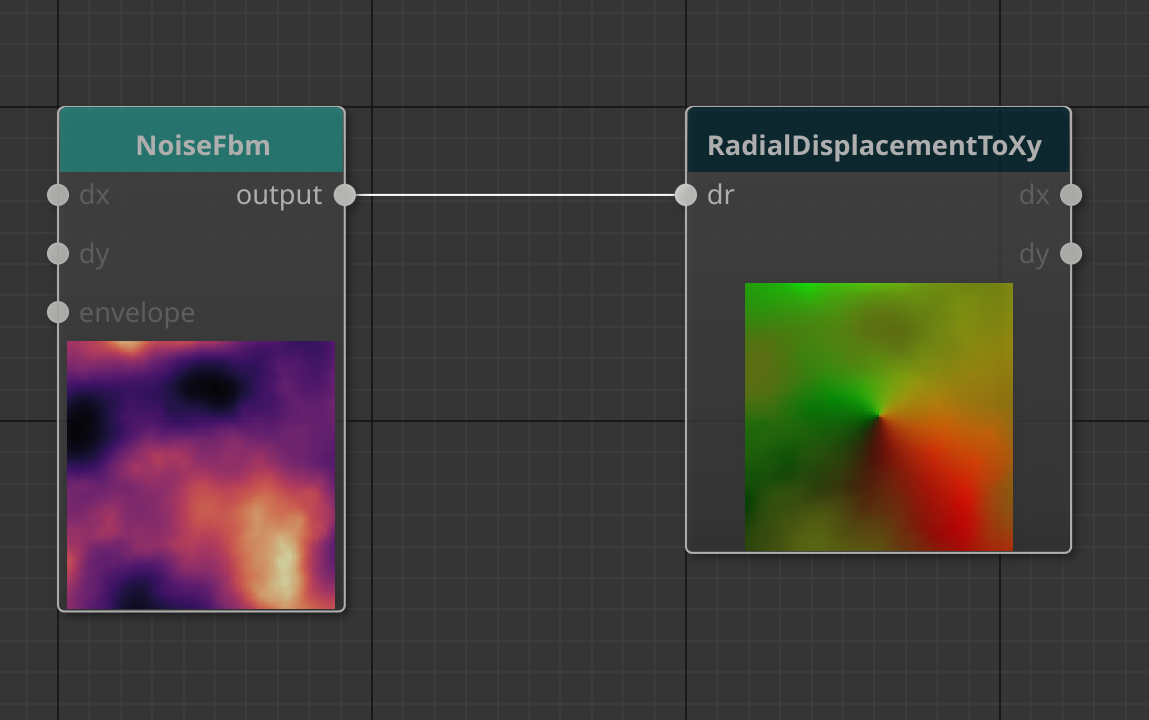
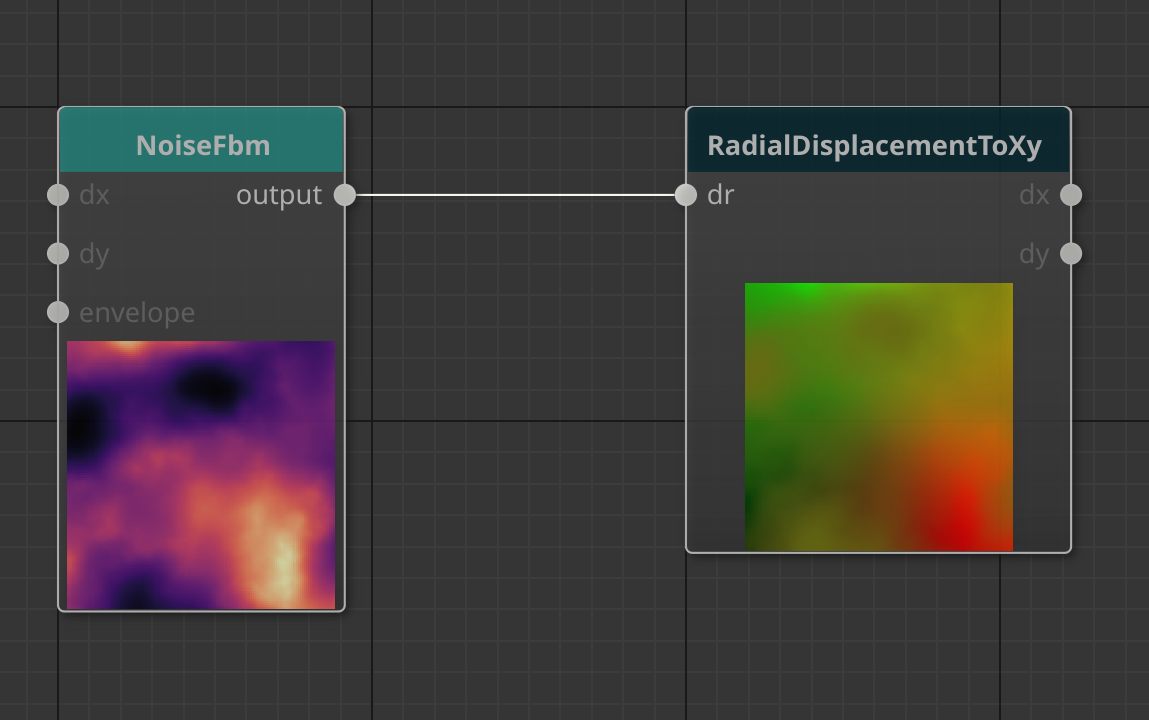
Add smoothing at origin for radial_displ_to_xy operator (#179)

Changed region(s): [[0.6701, 0.4889, 0.8529, 0.7028]]

diff --git a/Hesiod/src/model/nodes/radial_displacement_to_xy.cpp b/Hesiod/src/model/nodes/radial_displacement_to_xy.cpp
@@ -26,10 +26,11 @@ RadialDisplacementToXy::RadialDisplacementToXy(const ModelConfig *p_config)
   this->output_types = {HeightMapData().type(), HeightMapData().type()};
 
   // attributes
-  this->attr["center.x"] = NEW_ATTR_FLOAT(0.5f, -0.5f, 1.5f);
+  this->attr["smoothing"] = NEW_ATTR_FLOAT(1.f, 0.f, 10.f);
   this->attr["center.y"] = NEW_ATTR_FLOAT(0.5f, -0.5f, 1.5f);
+  this->attr["center.x"] = NEW_ATTR_FLOAT(0.5f, -0.5f, 1.5f);
 
-  this->attr_ordered_key = {"center.x", "center.y"};
+  this->attr_ordered_key = {"smoothing", "center.x", "center.y"};
 
   // update
   if (this->p_config->compute_nodes_at_instanciation)
@@ -48,6 +49,8 @@ RadialDisplacementToXy::RadialDisplacementToXy(const ModelConfig *p_config)
   this->output_descriptions = {"Displacement for  the x-direction.",
                                "Displacement for  the y-direction."};
 
+  this->attribute_descriptions
+      ["smoothing"] = "Smoothing parameter to avoid discontinuity at the origin.";
   this->attribute_descriptions["center.x"] = "Center x coordinate.";
   this->attribute_descriptions["center.y"] = "Center y coordinate.";
 }
@@ -98,11 +101,18 @@ void RadialDisplacementToXy::compute()
     hmap::transform(*p_dr,
                     *p_dx,
                     *p_dy,
-                    [&center](hmap::Array      &dr,
-                              hmap::Array      &dx,
-                              hmap::Array      &dy,
-                              hmap::Vec4<float> bbox)
-                    { hmap::radial_displacement_to_xy(dr, dx, dy, center, bbox); });
+                    [this, &center](hmap::Array      &dr,
+                                    hmap::Array      &dx,
+                                    hmap::Array      &dy,
+                                    hmap::Vec4<float> bbox)
+                    {
+                      hmap::radial_displacement_to_xy(dr,
+                                                      dx,
+                                                      dy,
+                                                      GET_ATTR_FLOAT("smoothing"),
+                                                      center,
+                                                      bbox);
+                    });
 
     // propagate
     Q_EMIT this->computingFinished();

diff --git a/docs/node_reference/nodes.md b/docs/node_reference/nodes.md
@@ -3226,6 +3226,7 @@ Math
 | :--- | :--- | :--- |
 |center.x|Float|Center x coordinate.|
 |center.y|Float|Center y coordinate.|
+|smoothing|Float|Smoothing parameter to avoid discontinuity at the origin.|
 
 ## RecastCliff
 
